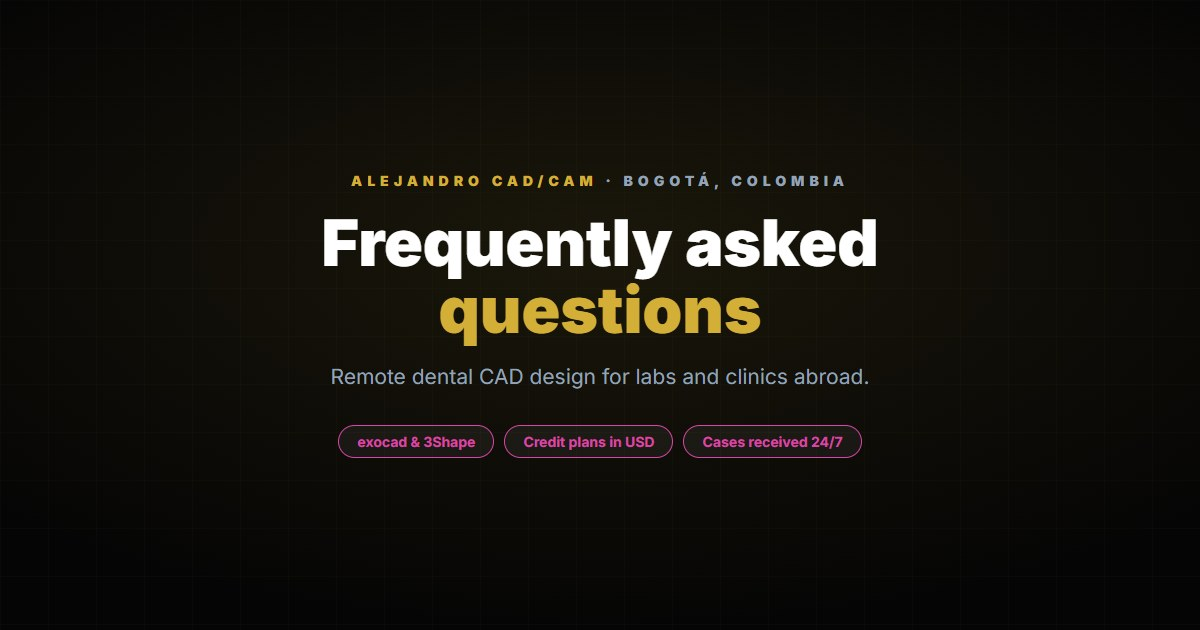
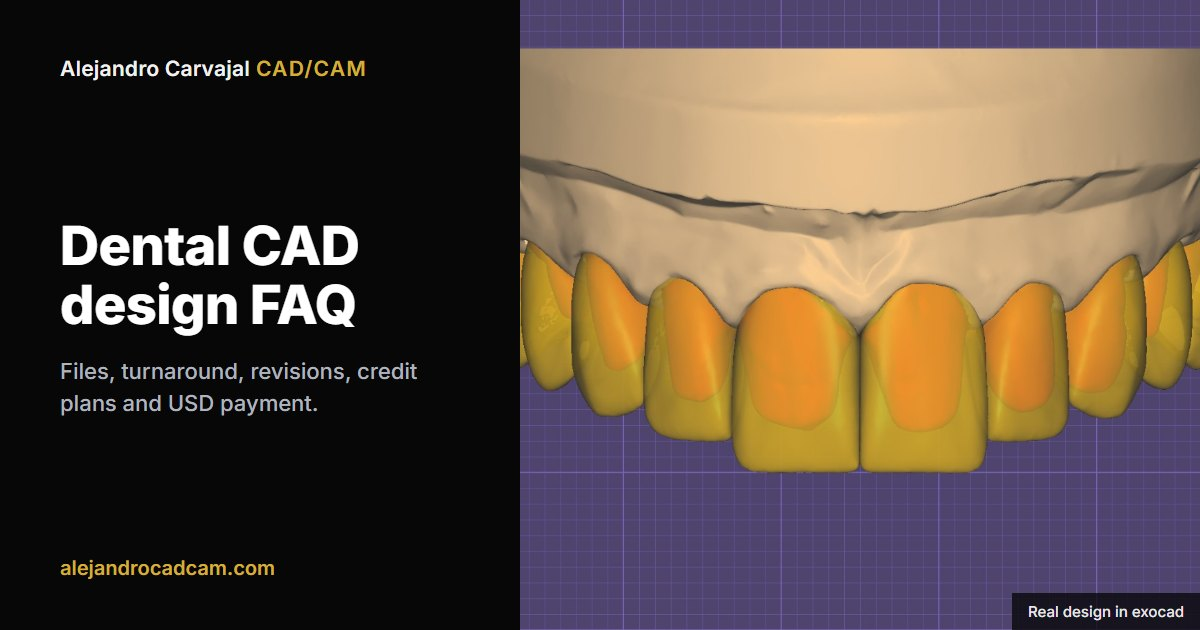
fix(og): imagen para compartir nueva en las páginas que faltaban (academia y sobre-mí con la foto real de Alejandro; portafolio, seguimiento, blog, preguntas, carillas, cotizador, soporte, en/faq). El cotizador en español mostraba «Design Price Calculator» y el host pages.dev. og-generar: fotos loca

diff --git a/sobre-mi.html b/sobre-mi.html
@@ -22,7 +22,7 @@
 <meta property="og:type" content="profile">
 <meta property="og:site_name" content="Alejandro Carvajal CAD/CAM">
 <meta property="og:url" content="https://alejandrocadcam.com/sobre-mi">
-<meta property="og:image" content="https://alejandrocadcam.com/assets/og-nosotros.jpg">
+<meta property="og:image" content="https://alejandrocadcam.com/assets/og-sobre-mi.jpg">
     <meta property="og:image:alt" content="Alejandro Carvajal — Diseñador CAD dental · Exocad · 3Shape · Bogotá">
     <meta property="og:image:width" content="1200">
     <meta property="og:image:height" content="630">
@@ -35,7 +35,7 @@
 <meta name="twitter:card" content="summary_large_image">
 <meta name="twitter:title" content="Alejandro Carvajal — Perfil Profesional CAD/CAM Dental">
 <meta name="twitter:description" content="10+ años en odontología digital. 1.800 unidades de diseño al año. 20+ países. Diseñador especializado en Exocad, 3Shape y CoDiagnostiX.">
-<meta name="twitter:image" content="https://alejandrocadcam.com/assets/og-nosotros.jpg">
+<meta name="twitter:image" content="https://alejandrocadcam.com/assets/og-sobre-mi.jpg">
     <meta name="twitter:image:alt" content="Alejandro Carvajal — Diseñador CAD dental · Exocad · 3Shape · Bogotá">
 <script type="application/ld+json">{"@context":"https://schema.org","@type":"Person","name":"J. Alejandro Carvajal","jobTitle":"Diseñador CAD/CAM Dental","image":"https://alejandrocadcam.com/assets/alejandro-carvajal.jpg","description":"Diseñador dental especializado en CAD/CAM con Exocad, 3Shape y CoDiagnostiX. Coronas, carillas, puentes, Full Arch, alineadores y guías quirúrgicas. Servicio remoto global.","url":"https://alejandrocadcam.com/sobre-mi","telephone":"+573159831800","address":{"@type":"PostalAddress","addressLocality":"Bogotá","addressCountry":"CO"},"knowsAbout":["Exocad DentalCAD","3Shape Dental System","CoDiagnostiX","Blender for Dental","Rhinoceros 3D","CAD/CAM Dental","Guías Quirúrgicas","Full Arch","Digital Smile Design","Alineadores CAD"],"alumniOf":[],"sameAs":["https://www.instagram.com/jackcarvajal/","https://www.linkedin.com/in/alejandrocadcam/","https://wa.me/573159831800"]}</script>
 <link rel="preconnect" href="https://www.clarity.ms">

diff --git a/cursos.html b/cursos.html
@@ -17,7 +17,7 @@
 <meta property="og:title" content="Cursos Exocad — Alejandro Carvajal CAD/CAM">
 <meta property="og:description" content="Cursos de Exocad para diseñadores dentales: Full Arch, guías quirúrgicas, DSD. Capacitación personalizada 1 a 1.">
 <meta property="og:url" content="https://alejandrocadcam.com/cursos">
-<meta property="og:image" content="https://alejandrocadcam.com/assets/og-academia.png">
+<meta property="og:image" content="https://alejandrocadcam.com/assets/og-academia.jpg">
     <meta property="og:image:alt" content="Alejandro Carvajal — Diseñador CAD dental · Exocad · 3Shape · Bogotá">
     <meta property="og:image:width" content="1200">
     <meta property="og:image:height" content="630">
@@ -31,7 +31,7 @@
 <meta name="twitter:card" content="summary_large_image">
 <meta name="twitter:title" content="Cursos Exocad — Alejandro Carvajal CAD/CAM">
 <meta name="twitter:description" content="Aprende diseño CAD dental en Exocad: coronas, puentes, Full Arch, guías quirúrgicas. Formación online para técnicos y odontólogos.">
-<meta name="twitter:image" content="https://alejandrocadcam.com/assets/og-academia.png">
+<meta name="twitter:image" content="https://alejandrocadcam.com/assets/og-academia.jpg">
     <meta name="twitter:image:alt" content="Alejandro Carvajal — Diseñador CAD dental · Exocad · 3Shape · Bogotá">
 <link rel="icon" type="image/png" sizes="96x96" href="/assets/icons/favicon-96.png?v=20261118">
 <link rel="preconnect" href="https://cdnjs.cloudflare.com">

diff --git a/soporte.html b/soporte.html
@@ -17,7 +17,7 @@
 <meta property="og:title" content="Soporte Técnico — Alejandro Carvajal CAD/CAM">
 <meta property="og:description" content="Soporte técnico directo para diseño CAD/CAM dental. Revisiones, correcciones y asistencia en flujos Exocad y 3Shape.">
 <meta property="og:url" content="https://alejandrocadcam.com/soporte">
-<meta property="og:image" content="https://alejandrocadcam.com/assets/og-soporte.jpg">
+<meta property="og:image" content="https://alejandrocadcam.com/assets/og-soporte-ac.jpg">
     <meta property="og:image:alt" content="Alejandro Carvajal — Diseñador CAD dental · Exocad · 3Shape · Bogotá">
     <meta property="og:image:width" content="1200">
     <meta property="og:image:height" content="630">
@@ -31,7 +31,7 @@
 <meta name="twitter:card" content="summary_large_image">
 <meta name="twitter:title" content="Soporte Técnico — Alejandro Carvajal CAD/CAM">
 <meta name="twitter:description" content="Ayuda y soporte para pedidos de diseño CAD dental. Resolvemos dudas sobre archivos STL, flujos y entregas remotas.">
-<meta name="twitter:image" content="https://alejandrocadcam.com/assets/og-soporte.jpg">
+<meta name="twitter:image" content="https://alejandrocadcam.com/assets/og-soporte-ac.jpg">
     <meta name="twitter:image:alt" content="Alejandro Carvajal — Diseñador CAD dental · Exocad · 3Shape · Bogotá">
 <link rel="icon" type="image/png" sizes="96x96" href="/assets/icons/favicon-96.png?v=20261118">
 <link rel="preconnect" href="https://cdnjs.cloudflare.com">

diff --git a/calculadora-diseno.html b/calculadora-diseno.html
@@ -15,7 +15,7 @@
   <meta property="og:title" content="Cotizador Diseño CAD — Alejandro Carvajal">
   <meta property="og:description" content="Diseño CAD en Exocad/3Shape. Corona, puente, Full Arch, guías quirúrgicas. STL en 24–48h. Precios en USD o COP.">
   <meta property="og:url" content="https://alejandrocadcam.com/calculadora-diseno">
-  <meta property="og:image" content="https://alejandrocadcam.com/assets/og-calculadora-diseno.jpg">
+  <meta property="og:image" content="https://alejandrocadcam.com/assets/og-cotizador.jpg">
     <meta property="og:image:alt" content="Alejandro Carvajal — Diseñador CAD dental · Exocad · 3Shape · Bogotá">
     <meta property="og:image:width" content="1200">
     <meta property="og:image:height" content="630">
@@ -29,7 +29,7 @@
   <meta name="twitter:card" content="summary_large_image">
   <meta name="twitter:title" content="Cotizador Diseño CAD — Alejandro Carvajal">
   <meta name="twitter:description" content="Diseño CAD dental remoto: corona, puente, Full Arch, guías quirúrgicas en Exocad. STL en 24–48h. Precios COP y USD.">
-  <meta name="twitter:image" content="https://alejandrocadcam.com/assets/og-calculadora-diseno.jpg">
+  <meta name="twitter:image" content="https://alejandrocadcam.com/assets/og-cotizador.jpg">
     <meta name="twitter:image:alt" content="Alejandro Carvajal — Diseñador CAD dental · Exocad · 3Shape · Bogotá">
   <meta name="theme-color" content="#D946A6">
   <meta name="color-scheme" content="dark">

diff --git a/blog.html b/blog.html
@@ -17,7 +17,7 @@
   <meta property="og:title" content="Blog CAD/CAM — Alejandro Carvajal">
   <meta property="og:description" content="Artículos técnicos sobre diseño CAD, guías quirúrgicas, fresado y flujo digital dental.">
   <meta property="og:url" content="https://alejandrocadcam.com/blog">
-  <meta property="og:image" content="https://alejandrocadcam.com/assets/og-blog.jpg">
+  <meta property="og:image" content="https://alejandrocadcam.com/assets/og-blog-cad.jpg">
     <meta property="og:image:alt" content="Alejandro Carvajal — Diseñador CAD dental · Exocad · 3Shape · Bogotá">
     <meta property="og:image:width" content="1200">
     <meta property="og:image:height" content="630">
@@ -30,7 +30,7 @@
   <meta name="twitter:card" content="summary_large_image">
   <meta name="twitter:title" content="Blog CAD/CAM — Alejandro Carvajal">
   <meta name="twitter:description" content="Artículos técnicos sobre diseño CAD, guías quirúrgicas, fresado y flujo digital dental.">
-  <meta name="twitter:image" content="https://alejandrocadcam.com/assets/og-blog.jpg">
+  <meta name="twitter:image" content="https://alejandrocadcam.com/assets/og-blog-cad.jpg">
     <meta name="twitter:image:alt" content="Alejandro Carvajal — Diseñador CAD dental · Exocad · 3Shape · Bogotá">
   <link rel="canonical" href="https://alejandrocadcam.com/blog">
   <link rel="icon" type="image/png" sizes="96x96" href="/assets/icons/favicon-96.png?v=20261118">

diff --git a/academia.html b/academia.html
@@ -20,7 +20,7 @@
 <meta property="og:description" content="Aprende exocad con una ruta por niveles, casos reales y soporte en español: de tu primera corona a full-arch. Únete a la lista de espera.">
 <meta property="og:type" content="website">
 <meta property="og:url" content="https://alejandrocadcam.com/academia">
-<meta property="og:image" content="https://alejandrocadcam.com/assets/og-academia.png">
+<meta property="og:image" content="https://alejandrocadcam.com/assets/og-academia.jpg">
 <meta property="og:image:alt" content="Academia de diseño dental CAD con Alejandro Carvajal — exocad en español">
 <meta property="og:image:width" content="1200">
 <meta property="og:image:height" content="630">
@@ -33,7 +33,7 @@
 <meta name="twitter:card" content="summary_large_image">
 <meta name="twitter:title" content="Academia de Diseño Dental CAD — Alejandro Carvajal">
 <meta name="twitter:description" content="Aprende exocad con una ruta por niveles, casos reales y soporte en español. Únete a la lista de espera.">
-<meta name="twitter:image" content="https://alejandrocadcam.com/assets/og-academia.png">
+<meta name="twitter:image" content="https://alejandrocadcam.com/assets/og-academia.jpg">
 <link rel="preconnect" href="https://fonts.googleapis.com">
 <link rel="preconnect" href="https://fonts.gstatic.com" crossorigin>
 <link rel="preconnect" href="https://cdnjs.cloudflare.com">

diff --git a/seguimiento-caso.html b/seguimiento-caso.html
@@ -17,7 +17,7 @@
     <meta property="og:site_name" content="Alejandro Carvajal">
     <meta property="og:title" content="Seguimiento de Caso | Alejandro Carvajal">
     <meta property="og:description" content="Estado en tiempo real de tu pedido dental.">
-    <meta property="og:image" content="https://alejandrocadcam.com/assets/og-portafolio.jpg">
+    <meta property="og:image" content="https://alejandrocadcam.com/assets/og-seguimiento.jpg">
     <meta property="og:image:alt" content="Alejandro Carvajal — Diseñador CAD dental · Exocad · 3Shape · Bogotá">
     <meta property="og:image:width" content="1200">
     <meta property="og:image:height" content="630">
@@ -25,7 +25,7 @@
     <meta name="twitter:card" content="summary_large_image">
     <meta name="twitter:title" content="Seguimiento de Caso | Alejandro Carvajal">
     <meta name="twitter:description" content="Estado en tiempo real de tu pedido dental.">
-    <meta name="twitter:image" content="https://alejandrocadcam.com/assets/og-portafolio.jpg">
+    <meta name="twitter:image" content="https://alejandrocadcam.com/assets/og-seguimiento.jpg">
     <meta name="twitter:image:alt" content="Alejandro Carvajal — Diseñador CAD dental · Exocad · 3Shape · Bogotá">
     <link rel="canonical" href="https://alejandrocadcam.com/seguimiento-caso">
 <link rel="dns-prefetch" href="https://zgihrwqfyvgyapbwzkvw.supabase.co">

diff --git a/carillas.html b/carillas.html
@@ -25,7 +25,7 @@
 <meta property="og:description" content="Diseño digital de carillas en exocad: Hollywood o natural. Envías el escaneo, diseño en CAD y apruebas el mock-up 3D antes de producir.">
 <meta property="og:type" content="website">
 <meta property="og:url" content="https://alejandrocadcam.com/carillas">
-<meta property="og:image" content="https://alejandrocadcam.com/assets/og-carillas.jpg">
+<meta property="og:image" content="https://alejandrocadcam.com/assets/og-carillas-cad.jpg">
 <meta property="og:image:width" content="1200">
 <meta property="og:image:height" content="630">
 <meta property="og:locale" content="es_CO">
@@ -33,7 +33,7 @@
 <meta name="twitter:card" content="summary_large_image">
 <meta name="twitter:title" content="Diseño de carillas dentales CAD | Alejandro Carvajal CAD/CAM">
 <meta name="twitter:description" content="Diseño digital de carillas: Hollywood o natural. Envías el escaneo, diseño en exocad y apruebas el mock-up 3D antes de producir.">
-<meta name="twitter:image" content="https://alejandrocadcam.com/assets/og-carillas.jpg">
+<meta name="twitter:image" content="https://alejandrocadcam.com/assets/og-carillas-cad.jpg">
 <link rel="preconnect" href="https://cdnjs.cloudflare.com">
 <link rel="dns-prefetch" href="https://cdnjs.cloudflare.com">
 <link rel="preload" href="js/header.js?v=20261122e" as="script">

diff --git a/article.html b/article.html
@@ -16,7 +16,7 @@
 <meta property="og:locale:alternate" content="en_US">
   <meta property="og:site_name" content="Alejandro Carvajal CAD/CAM">
   <meta id="og-url" property="og:url" content="https://alejandrocadcam.com/article">
-  <meta id="og-image" property="og:image" content="https://alejandrocadcam.com/assets/og-blog.jpg">
+  <meta id="og-image" property="og:image" content="https://alejandrocadcam.com/assets/og-blog-cad.jpg">
   <meta property="og:image:width" content="1200">
   <meta property="og:image:height" content="630">
   <meta name="robots" content="index, follow, max-snippet:-1, max-image-preview:large, max-video-preview:-1">
@@ -29,7 +29,7 @@
   <meta name="twitter:card" content="summary_large_image">
   <meta id="tw-title" name="twitter:title" content="Alejandro Carvajal — Artículo CAD/CAM">
   <meta id="tw-desc" name="twitter:description" content="">
-  <meta id="tw-image" name="twitter:image" content="https://alejandrocadcam.com/assets/og-blog.jpg">
+  <meta id="tw-image" name="twitter:image" content="https://alejandrocadcam.com/assets/og-blog-cad.jpg">
   <link rel="canonical" id="canonical" href="https://alejandrocadcam.com/article">
   <link rel="alternate" hreflang="es" href="https://alejandrocadcam.com/article">
   <link rel="alternate" hreflang="x-default" href="https://alejandrocadcam.com/article">

diff --git a/preguntas.html b/preguntas.html
@@ -21,7 +21,7 @@
 <meta property="og:description" content="Todo lo que necesitas saber sobre diseño CAD, fresado opcional y guías quirúrgicas con Alejandro Carvajal CAD/CAM.">
 <meta property="og:type" content="website">
 <meta property="og:url" content="https://alejandrocadcam.com/preguntas">
-<meta property="og:image" content="https://alejandrocadcam.com/assets/og-soporte.jpg">
+<meta property="og:image" content="https://alejandrocadcam.com/assets/og-preguntas.jpg">
 <meta property="og:image:width" content="1200">
 <meta property="og:image:height" content="630">
 <meta property="og:locale" content="es_CO">
@@ -29,7 +29,7 @@
 <meta name="twitter:card" content="summary_large_image">
 <meta name="twitter:title" content="FAQ — Alejandro Carvajal CAD/CAM">
 <meta name="twitter:description" content="Diseño CAD dental remoto, fresado opcional y guías quirúrgicas. Precios, tiempos y formatos.">
-<meta name="twitter:image" content="https://alejandrocadcam.com/assets/og-soporte.jpg">
+<meta name="twitter:image" content="https://alejandrocadcam.com/assets/og-preguntas.jpg">
 <meta name="geo.region" content="CO-DC">
 <meta name="geo.placename" content="Bogotá">
 <meta name="geo.position" content="4.710989;-74.072090">

diff --git a/verificar-certificado.html b/verificar-certificado.html
@@ -13,7 +13,7 @@
 <meta property="og:description" content="Comprueba un certificado de la Academia de Alejandro CAD/CAM con su código de verificación.">
 <meta property="og:type" content="website">
 <meta property="og:url" content="https://alejandrocadcam.com/verificar-certificado">
-<meta property="og:image" content="https://alejandrocadcam.com/assets/og-academia.png">
+<meta property="og:image" content="https://alejandrocadcam.com/assets/og-academia.jpg">
 <meta property="og:image:alt" content="Academia de diseño dental CAD con Alejandro Carvajal">
 <meta property="og:image:width" content="1200">
 <meta property="og:image:height" content="630">

diff --git a/curso.html b/curso.html
@@ -17,7 +17,7 @@
 <meta property="og:description" content="Curso grabado de diseño dental digital con Alejandro Carvajal: temario, clases y certificado.">
 <meta property="og:type" content="website">
 <meta property="og:url" content="https://alejandrocadcam.com/academia">
-<meta property="og:image" content="https://alejandrocadcam.com/assets/og-academia.png">
+<meta property="og:image" content="https://alejandrocadcam.com/assets/og-academia.jpg">
 <meta property="og:locale" content="es_CO">
 <meta property="og:site_name" content="Alejandro Carvajal CAD/CAM">
 <meta name="twitter:card" content="summary_large_image">
